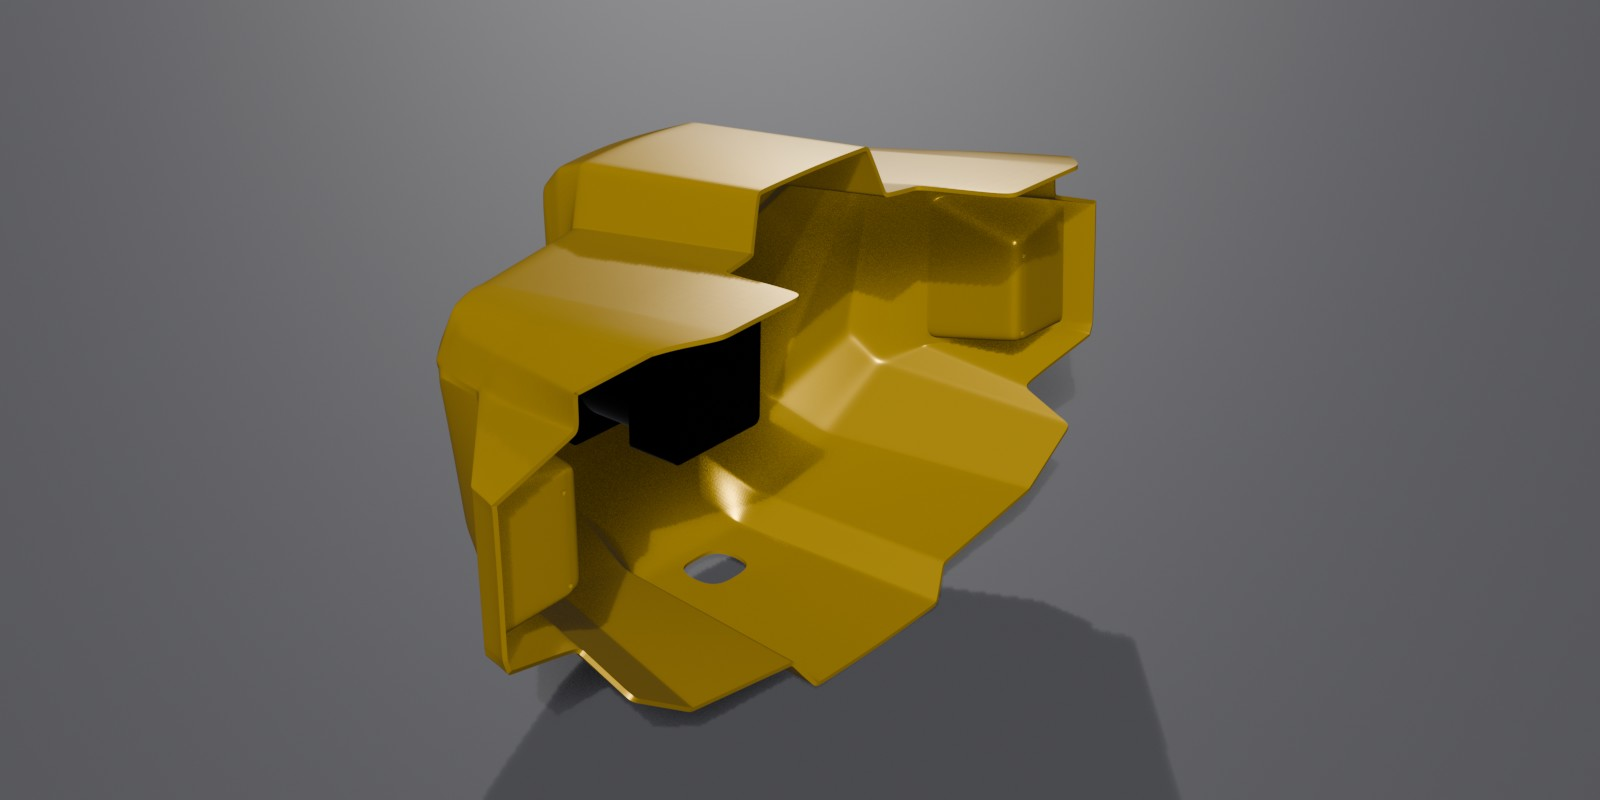
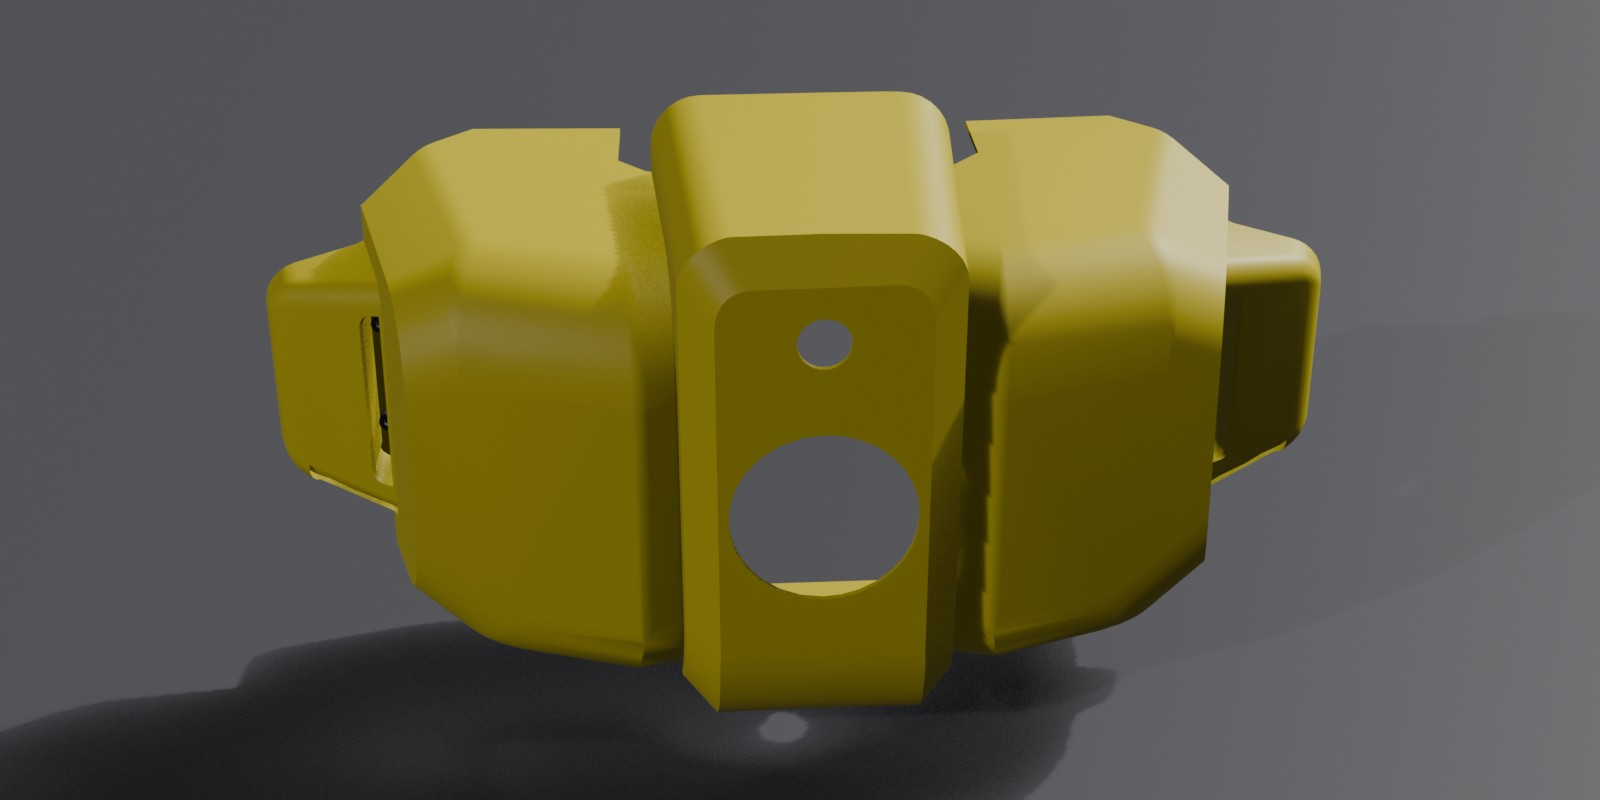
Corrige el angulo de camara del render de la carcasa frontal (MX80-014)
La camara generica del pipeline de renders (una sola direccion para todas
las piezas) mostraba la carcasa casi de canto, porque esta pieza queda
desplazada del centro del dron casi puro en -X y la camara mira desde el
lado contrario. Agrega un override de direccion por SKU en
render_piezas.py y regenera el JPG con el angulo correcto.

diff --git a/apps/vitrina/blender/render_piezas.py b/apps/vitrina/blender/render_piezas.py
@@ -36,6 +36,18 @@ DIRECCION_CAMARA = Vector((1.0, -1.25, 0.75)).normalized()
 # Fraccion del cuadro que puede ocupar la pieza (el resto es aire alrededor).
 OCUPACION = 0.78
 
+# Direccion de camara distinta para SKUs puntuales, cuando la generica de
+# arriba la muestra de canto o desde el lado que no es. MX80-014 (carcasa
+# frontal) queda desplazada casi puro en -X respecto al centro del dron (se
+# confirmo con los vertices reales del GLB: centro de la pieza en X=-0.42
+# contra X=-0.07 del dron completo), asi que su cara de afuera mira hacia
+# -X y no hacia donde mira la camara generica (+X,-Y). Si cambia el GLB y
+# esto deja de cuadrar, vuelve a calcularse igual: centro de la pieza menos
+# centro del dron completo, en espacio mundo.
+DIRECCIONES_CAMARA_POR_SKU = {
+    "MX80-014": Vector((-1.0, 0.05, 0.45)).normalized(),
+}
+
 
 def sanear(nombre):
     """El nombre como lo deja three.js al cargar el GLB (ver componentes.ts)."""
@@ -235,7 +247,7 @@ def puntos_mundo(objetos, maximo_por_objeto=20000):
     return puntos
 
 
-def encuadrar(camara, piso, puntos):
+def encuadrar(camara, piso, puntos, direccion_camara=DIRECCION_CAMARA):
     """
     Camara que mete la pieza justa en el cuadro. Se proyectan los vertices
     reales al sistema de la camara (que mira siempre desde la misma
@@ -245,20 +257,20 @@ def encuadrar(camara, piso, puntos):
     datos = camara.data
     tan_h = math.tan(math.atan(datos.sensor_width / (2 * datos.lens))) * OCUPACION
     tan_v = tan_h * ALTO / ANCHO
-    orientacion = (-DIRECCION_CAMARA).to_track_quat("-Z", "Y")
+    orientacion = (-direccion_camara).to_track_quat("-Z", "Y")
     derecha = orientacion @ Vector((1, 0, 0))
     arriba = orientacion @ Vector((0, 1, 0))
 
     # Centro de la pieza en la imagen (no el de su caja en 3D).
     xs = [p.dot(derecha) for p in puntos]
     ys = [p.dot(arriba) for p in puntos]
-    zs = [p.dot(DIRECCION_CAMARA) for p in puntos]
+    zs = [p.dot(direccion_camara) for p in puntos]
     centro = (
         derecha * ((min(xs) + max(xs)) / 2)
         + arriba * ((min(ys) + max(ys)) / 2)
-        + DIRECCION_CAMARA * ((min(zs) + max(zs)) / 2)
+        + direccion_camara * ((min(zs) + max(zs)) / 2)
     )
-    cx, cy, cz = centro.dot(derecha), centro.dot(arriba), centro.dot(DIRECCION_CAMARA)
+    cx, cy, cz = centro.dot(derecha), centro.dot(arriba), centro.dot(direccion_camara)
     distancia = 0.0
     for x, y, z in zip(xs, ys, zs):
         cerca = z - cz  # cuanto mas cerca de la camara esta el punto
@@ -270,7 +282,7 @@ def encuadrar(camara, piso, puntos):
 
     minimo_z = min(p.z for p in puntos)
     radio = max((max(xs) - min(xs)), (max(ys) - min(ys)), (max(zs) - min(zs)), 1e-4)
-    camara.location = centro + DIRECCION_CAMARA * distancia
+    camara.location = centro + direccion_camara * distancia
     camara.rotation_euler = orientacion.to_euler()
     datos.clip_start = max(distancia * 0.01, 1e-4)
     datos.clip_end = distancia * 20 + radio * 4
@@ -308,7 +320,8 @@ def main():
             if obj.type == "LIGHT" and obj not in propios:
                 continue
             obj.hide_render = obj not in visibles
-        encuadrar(camara, piso, puntos)
+        direccion = DIRECCIONES_CAMARA_POR_SKU.get(pieza["sku"], DIRECCION_CAMARA)
+        encuadrar(camara, piso, puntos, direccion)
         archivo = os.path.join(salida, f"{pieza['sku']}.jpg")
         escena.render.filepath = archivo
         bpy.ops.render.render(write_still=True)
